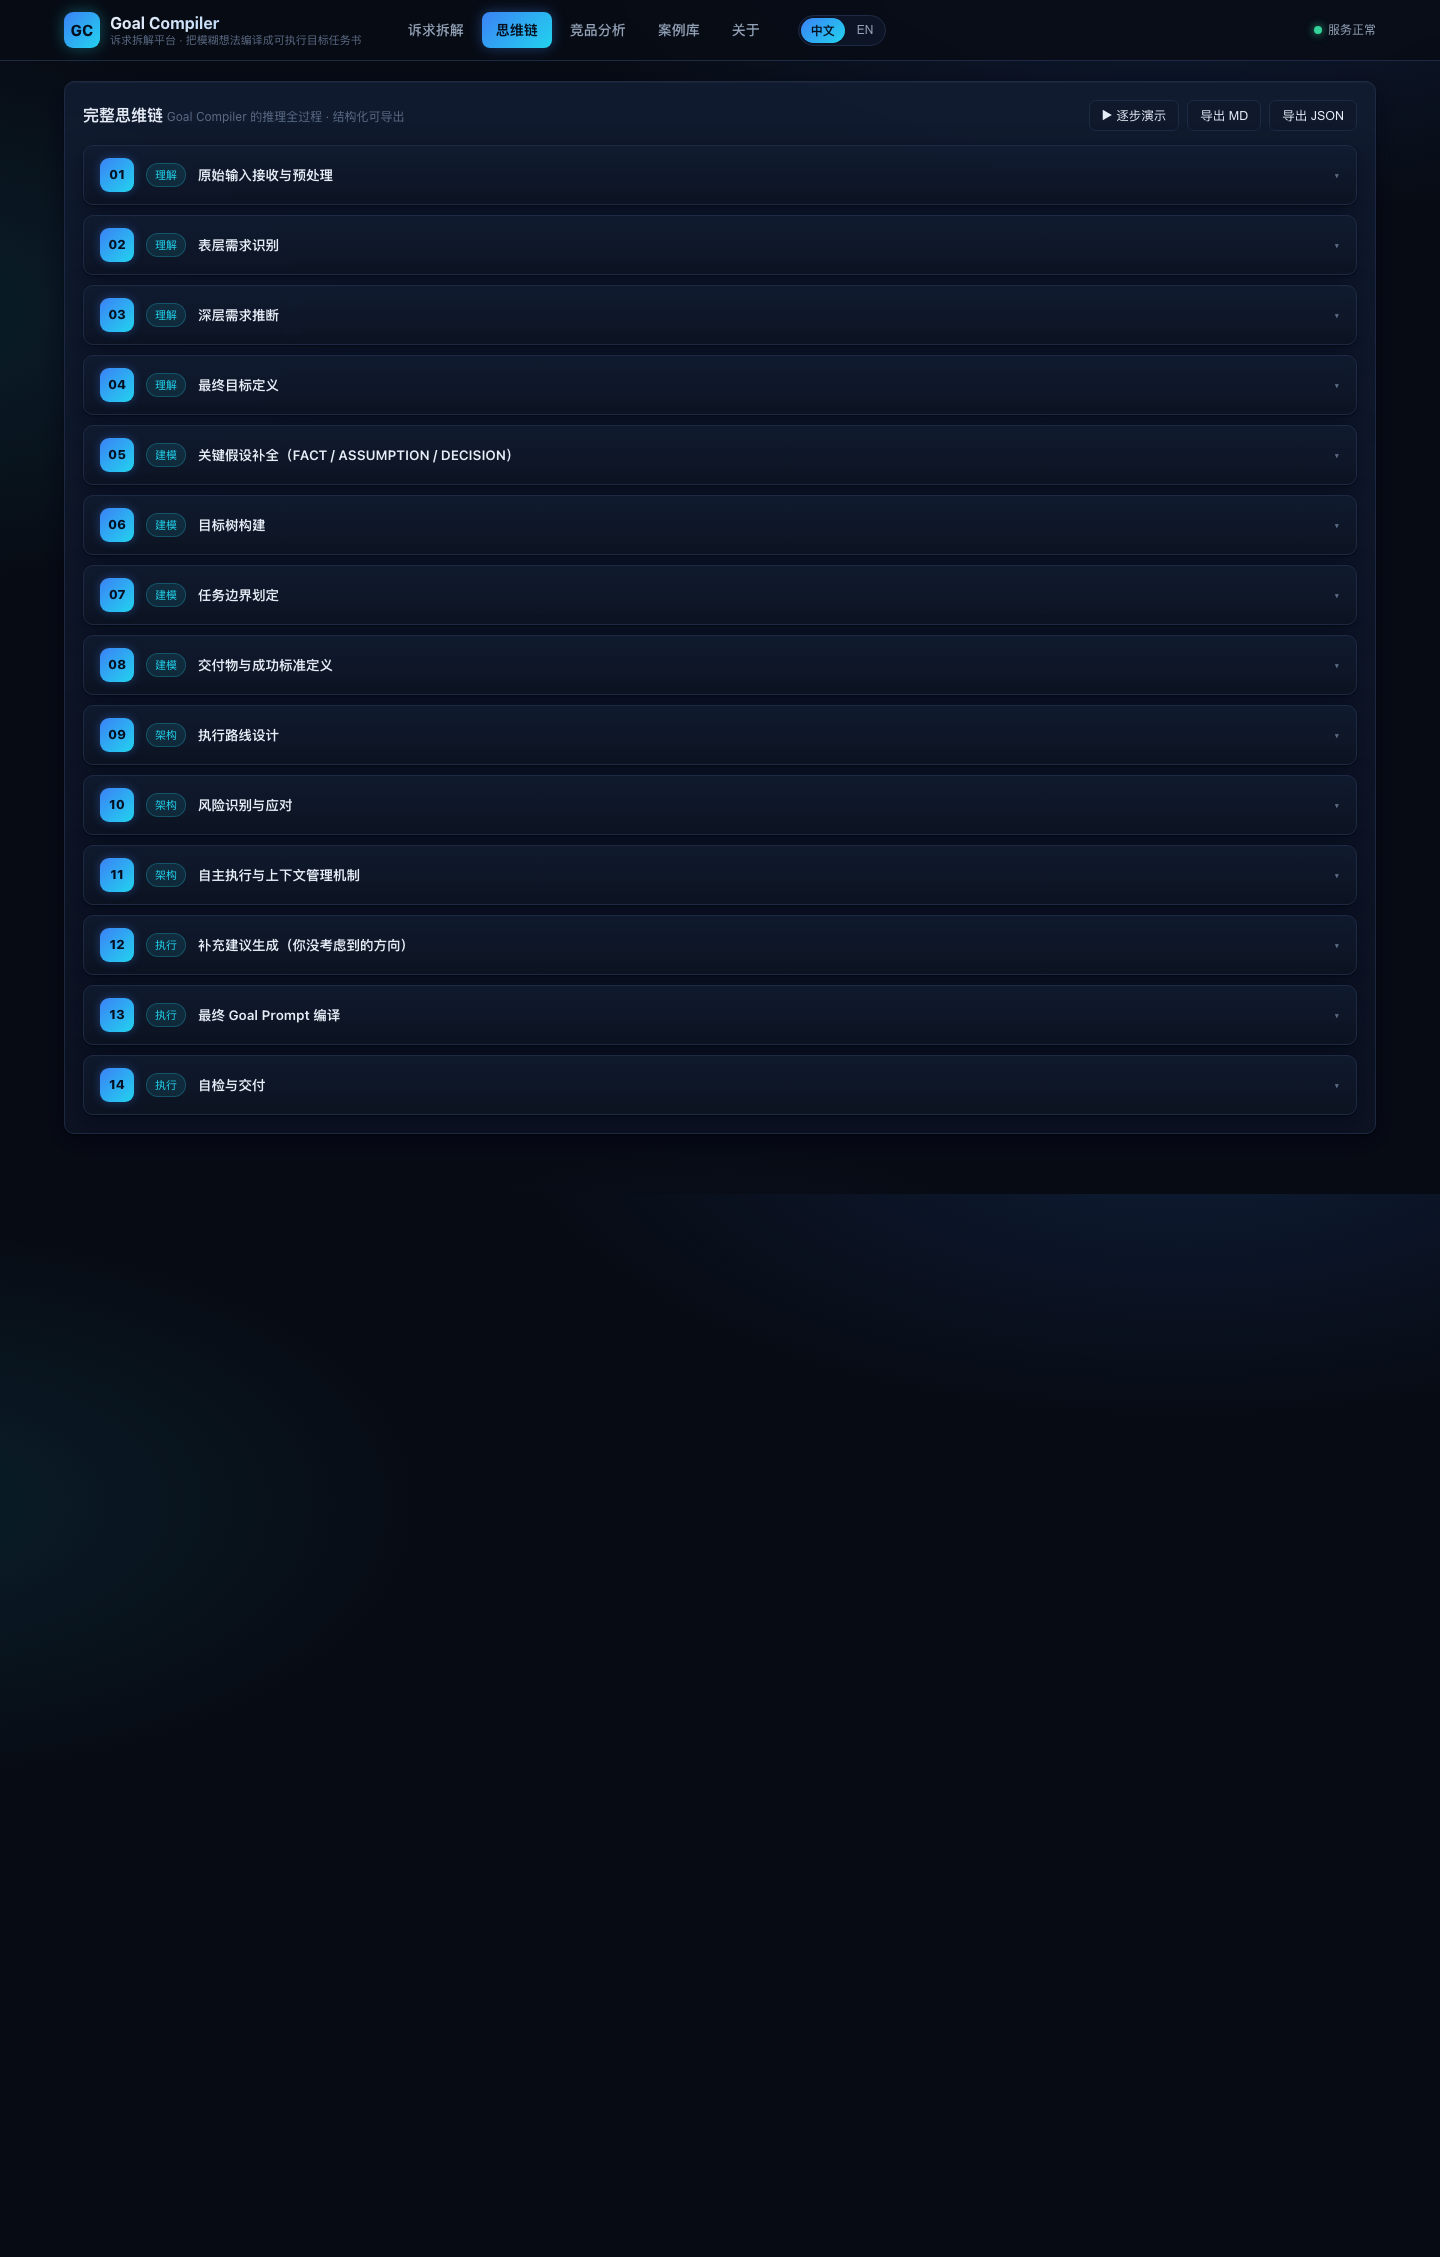
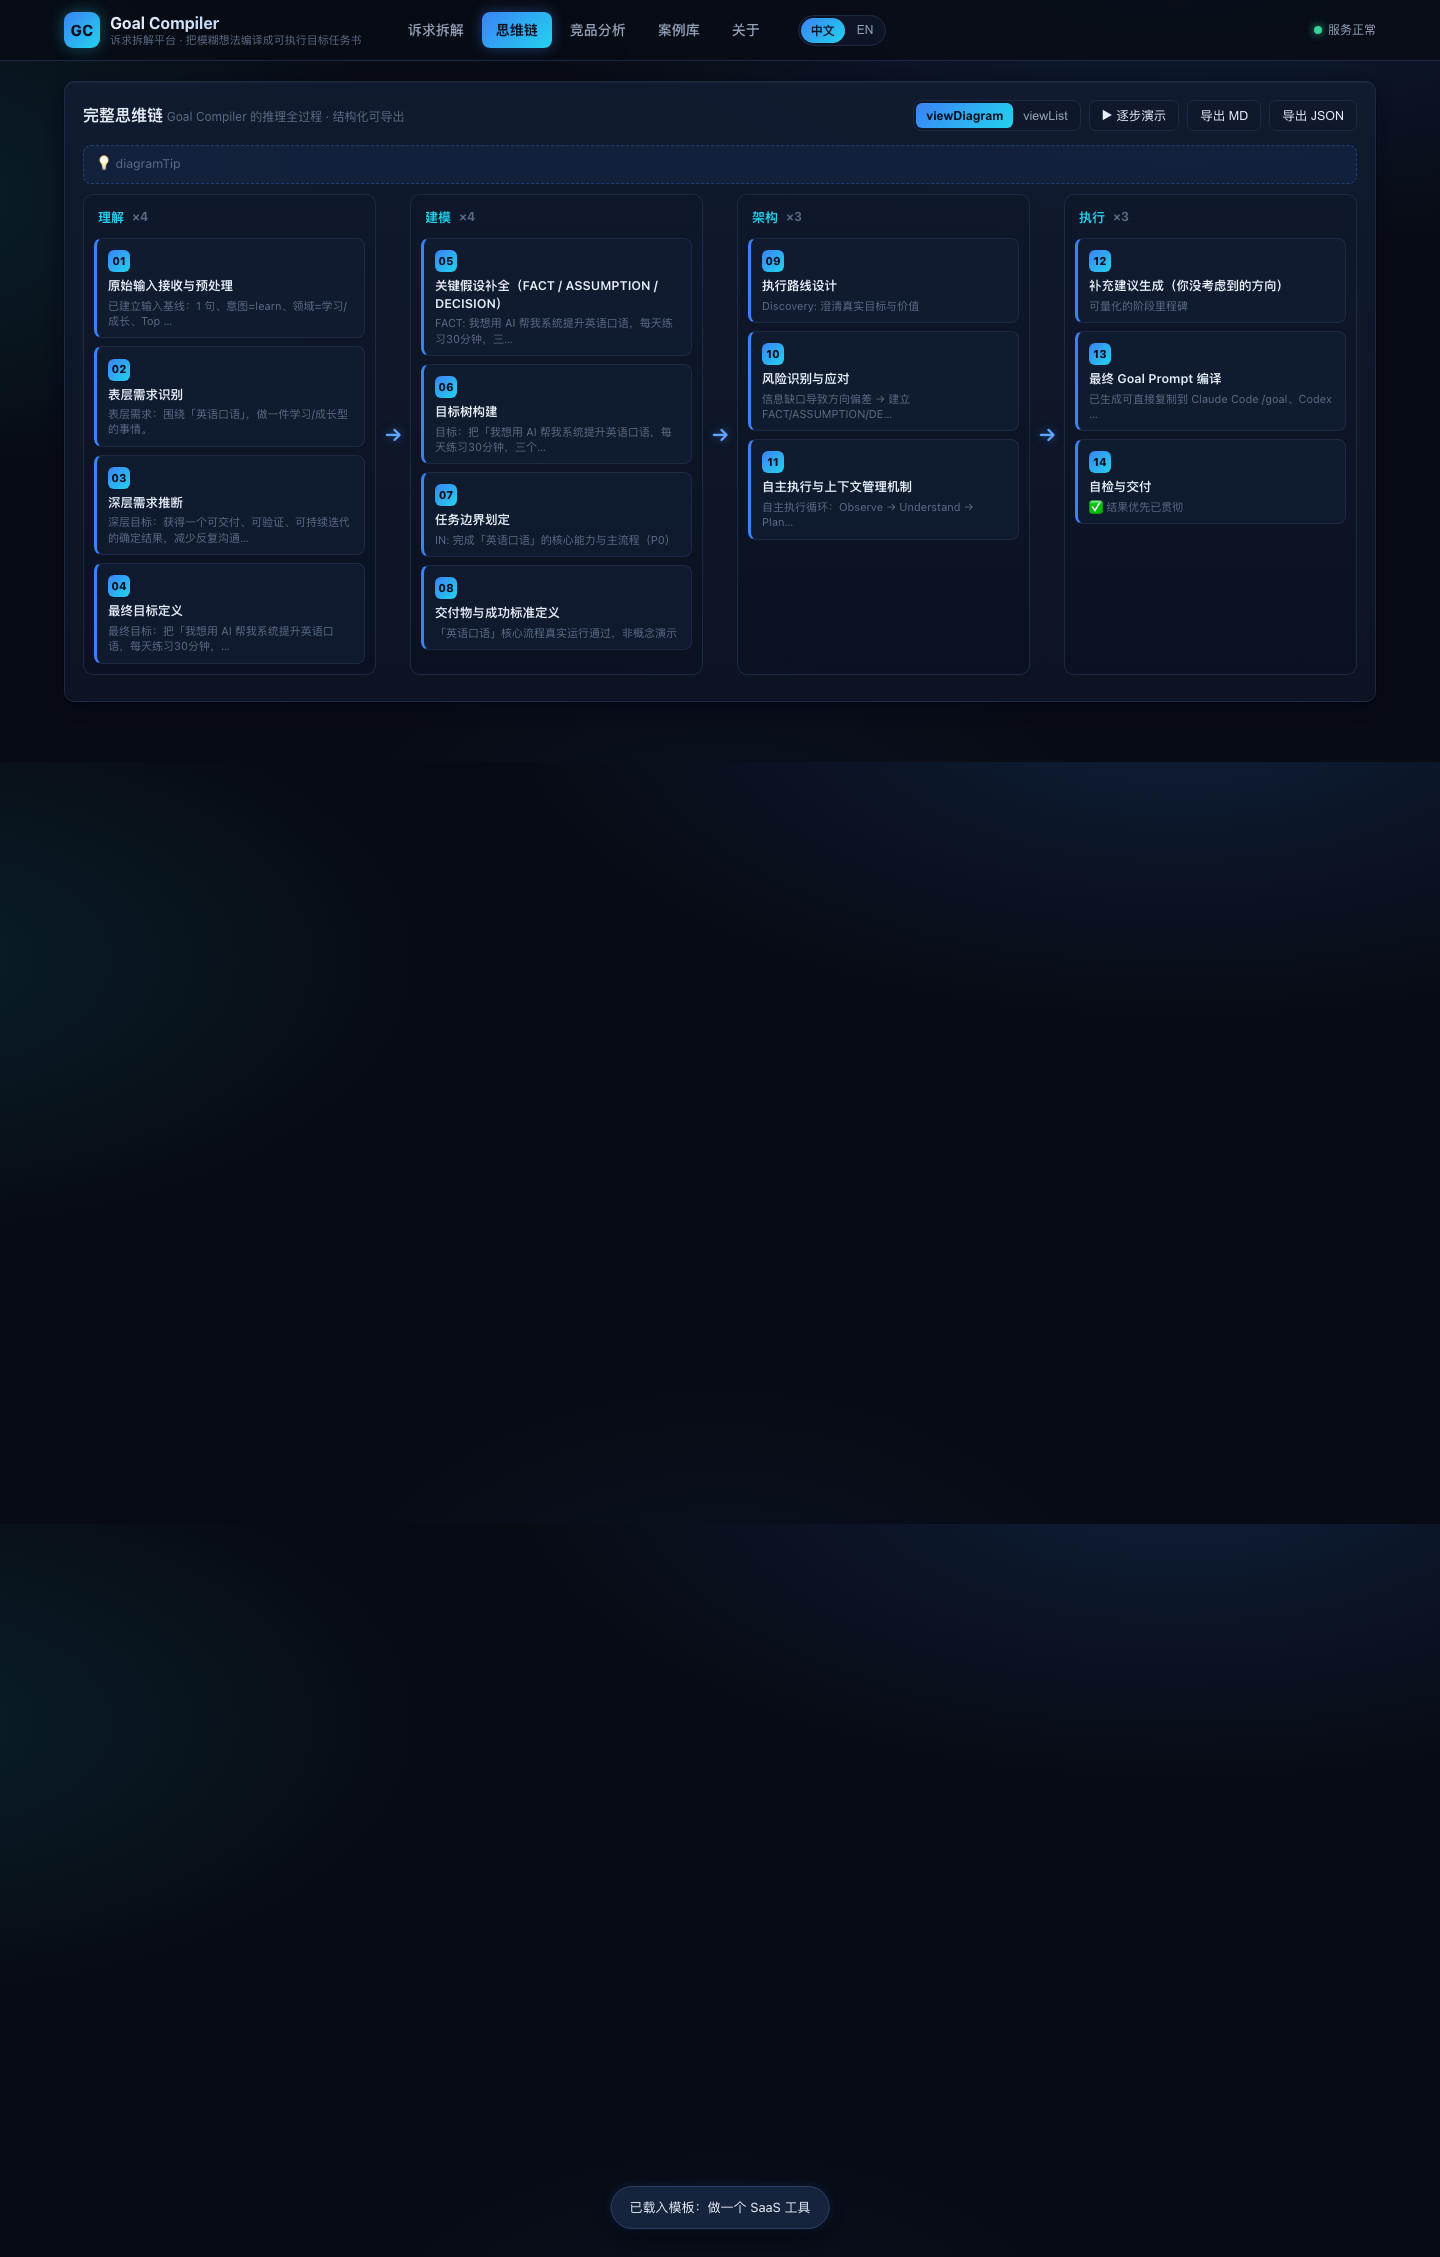
feat(goal-compiler): v5 — 输入历史建议 + 思维链思维框图与节点弹窗
- 🔍 输入框历史建议：聚焦/输入下拉推荐（草稿+已收录案例+内置用例），点击或 ↑↓/Enter/Esc 选择
- 🧠 思维链改为思维框图：理解→建模→架构→执行 四阶段泳道 + 箭头连接
- 🖱 点击任一主逻辑节点弹出解释弹窗（Input/Reasoning/Output/Evidence/Decisions），←/→ 前后节点导航
- 🔀 框图/列表双模式切换；逐步演示在框图模式高亮节点
- 测试：单测+API 18/18、浏览器 E2E 32/32

diff --git a/05-projects/09-goal-compiler/public/styles.css b/05-projects/09-goal-compiler/public/styles.css
@@ -325,3 +325,41 @@ kbd { font-family: var(--mono); font-size: 10px; background: rgba(0,0,0,.25); bo
 .usage-stat { background: linear-gradient(180deg, rgba(17,28,49,.8), rgba(12,19,33,.8)); border: 1px solid var(--border); border-radius: 10px; padding: 14px; text-align: center; }
 .usage-stat b { display: block; font-size: 24px; font-weight: 800; color: var(--primary-bright); }
 .usage-stat span { font-size: 12px; color: var(--muted); }
+
+/* ---- v5 组件：历史输入建议 / 思维框图 / 节点弹窗 ---- */
+.input-wrap { position: relative; }
+.input-suggest { position: absolute; top: 100%; left: 0; right: 0; z-index: 60; margin-top: 4px; background: #0c1424; border: 1px solid var(--border-strong); border-radius: 10px; box-shadow: 0 12px 32px rgba(0,0,0,.5), 0 0 16px rgba(59,130,246,.12); max-height: 260px; overflow: auto; padding: 6px; }
+.sug-item { display: flex; flex-direction: column; gap: 2px; width: 100%; text-align: left; background: transparent; border: none; border-radius: 7px; padding: 8px 10px; cursor: pointer; color: var(--text); }
+.sug-item:hover, .sug-item.active { background: rgba(59,130,246,.14); }
+.sug-raw { font-size: 12.5px; line-height: 1.45; }
+.sug-meta { font-size: 11px; color: var(--faint); }
+
+.seg { display: inline-flex; background: rgba(15,23,42,.8); border: 1px solid var(--border); border-radius: 8px; padding: 2px; }
+.seg-btn { border: none; background: transparent; color: var(--muted); font-size: 12.5px; padding: 5px 10px; border-radius: 6px; cursor: pointer; transition: all .15s; }
+.seg-btn.active { background: var(--primary-grad); color: #04101f; font-weight: 700; }
+.chain-diagram-tip { font-size: 12.5px; color: var(--faint); margin: 0 0 10px; padding: 8px 12px; background: rgba(59,130,246,.07); border: 1px dashed rgba(59,130,246,.3); border-radius: 8px; }
+
+/* 思维框图：四阶段泳道 + 箭头 */
+.cd-flow { display: flex; gap: 0; align-items: stretch; overflow-x: auto; padding-bottom: 8px; }
+.cd-lane { flex: 1; min-width: 210px; background: linear-gradient(180deg, rgba(15,23,42,.6), rgba(10,17,32,.6)); border: 1px solid var(--border); border-radius: 10px; padding: 10px; }
+.cd-lane-head { font-size: 13px; font-weight: 700; color: var(--cyan); padding: 2px 4px 10px; display: flex; align-items: center; gap: 8px; }
+.cd-lane-body { display: flex; flex-direction: column; gap: 8px; }
+.cd-node { background: rgba(17,28,49,.85); border: 1px solid var(--border); border-left: 3px solid var(--primary); border-radius: 8px; padding: 9px 11px; cursor: pointer; transition: all .15s; }
+.cd-node:hover { border-color: var(--primary); box-shadow: 0 0 12px rgba(59,130,246,.25); transform: translateY(-1px); }
+.cd-node.active { border-color: var(--cyan); box-shadow: 0 0 14px rgba(34,211,238,.4); }
+.cd-node-step { display: inline-flex; align-items: center; justify-content: center; min-width: 22px; height: 22px; border-radius: 6px; background: var(--primary-grad); color: #04101f; font-weight: 800; font-size: 11px; margin-bottom: 5px; }
+.cd-node-title { font-size: 12.5px; font-weight: 600; line-height: 1.4; }
+.cd-node-out { font-size: 11px; color: var(--faint); margin-top: 3px; line-height: 1.4; }
+.cd-arrow { display: flex; align-items: center; justify-content: center; min-width: 34px; color: var(--primary-bright); font-size: 20px; font-weight: 700; text-shadow: 0 0 10px rgba(59,130,246,.5); }
+@media (max-width: 1080px) {
+  .cd-flow { flex-direction: column; }
+  .cd-arrow { transform: rotate(90deg); min-height: 26px; }
+}
+
+/* 节点弹窗 */
+.chain-modal-box { max-width: 760px; }
+.chain-body-open .row { margin: 12px 0; }
+.chain-body-open .label { font-size: 11px; text-transform: uppercase; letter-spacing: .4px; color: var(--faint); font-weight: 600; display: block; margin-bottom: 4px; }
+.chain-body-open .reasoning { background: rgba(59,130,246,.08); border-left: 3px solid var(--primary); padding: 10px 12px; border-radius: 0 8px 8px 0; font-size: 13px; }
+.chain-body-open .outcome { background: var(--green-soft); border-left: 3px solid var(--green); padding: 10px 12px; border-radius: 0 8px 8px 0; font-size: 13px; }
+.chain-body-open .input-text { font-size: 12.5px; color: var(--faint); font-style: italic; }

diff --git a/05-projects/09-goal-compiler/public/index.html b/05-projects/09-goal-compiler/public/index.html
@@ -45,7 +45,10 @@
           <h2 data-i18n="inTitle">① 输入原始诉求</h2>
           <span class="hint" data-i18n="inHint">支持中英文，一句话或一段描述均可</span>
         </div>
-        <textarea id="rawInput" rows="7" data-i18n-ph="inPlaceholder" placeholder="例：我想做一个帮程序员准备面试的 AI 面试官工具，可以模拟面试并打分反馈，按岗位定制问题…"></textarea>
+        <div class="input-wrap">
+          <textarea id="rawInput" rows="7" data-i18n-ph="inPlaceholder" placeholder="例：我想做一个帮程序员准备面试的 AI 面试官工具，可以模拟面试并打分反馈，按岗位定制问题…"></textarea>
+          <div id="inputSuggestions" class="input-suggest hidden"></div>
+        </div>
         <div class="input-meta">
           <span id="inputStats">0 字 · 0 句</span>
           <span class="link" id="clearInput" data-i18n="clear">清空</span>
@@ -151,6 +154,10 @@
       <div class="panel-head">
         <h2 data-i18n="chainTitle">完整思维链 <span class="hint" data-i18n="chainHint">Goal Compiler 的推理全过程 · 结构化可导出</span></h2>
         <div class="toolbar">
+          <div class="seg" id="chainViewSeg">
+            <button class="seg-btn active" data-view="diagram" data-i18n="viewDiagram">🧠 思维框图</button>
+            <button class="seg-btn" data-view="list" data-i18n="viewList">☰ 列表模式</button>
+          </div>
           <button class="btn-ghost" id="playChainBtn" data-i18n="play">▶ 逐步演示</button>
           <button class="btn-ghost" id="exportChainMd" data-i18n="exportMd">导出 MD</button>
           <button class="btn-ghost" id="exportChainJson" data-i18n="exportJson">导出 JSON</button>
@@ -159,6 +166,8 @@
       <div id="chainEmpty" class="empty-state">
         <p data-i18n="chainEmpty">先在上方「诉求拆解」中完成一次编译，<br/>这里将以 14 个推理节点展示完整思维链。</p>
       </div>
+      <div class="chain-diagram-tip" id="chainDiagramTip">💡 <span data-i18n="diagramTip">思维框图：按「理解 → 建模 → 架构 → 执行」四阶段泳道组织，点击任一主逻辑节点查看详细解释</span></div>
+      <div id="chainDiagram" class="chain-diagram hidden"></div>
       <div id="chainList" class="chain-list hidden"></div>
     </div>
   </section>
@@ -285,6 +294,22 @@
     </div>
   </section>
 </main>
+
+<!-- 思维链节点解释弹窗 -->
+<div id="chainModal" class="modal hidden">
+  <div class="modal-box chain-modal-box">
+    <div class="modal-head">
+      <h3 id="chainModalTitle">节点解释</h3>
+      <div class="toolbar">
+        <button class="btn-ghost" id="chainModalPrev">←</button>
+        <span class="hint" id="chainModalPos">1/14</span>
+        <button class="btn-ghost" id="chainModalNext">→</button>
+        <button class="btn-ghost" id="chainModalClose">✕</button>
+      </div>
+    </div>
+    <div id="chainModalBody"></div>
+  </div>
+</div>
 
 <!-- 历史记录弹层 -->
 <div id="historyModal" class="modal hidden">

diff --git a/05-projects/09-goal-compiler/README.md b/05-projects/09-goal-compiler/README.md
@@ -31,6 +31,12 @@
 - 📐 **竞品评分规则公开**：5 维 0-5 分（相关度/产品化/拆解深度/采纳度/威胁度）+ 定位矩阵象限规则
 - 🗃 **竞品页按分类区域重组**：Skill / 仓库 / SaaS / 网页应用 / MCP / npm / AI 模型 / 社区讨论 分区展示（含平均威胁度）
 
+## 本次升级（v5）
+
+- 🔍 **输入框历史建议**：聚焦/输入时下拉推荐历史输入（草稿 + 已收录案例 + 内置用例），支持点击与 ↑↓/Enter/Esc 键盘选择
+- 🧠 **思维链改为思维框图**：「理解 → 建模 → 架构 → 执行」四阶段泳道 + 箭头连接；点击任一主逻辑节点弹出**解释弹窗**（输入/推理/结论/证据/决策），支持 ←/→ 前后节点导航；保留列表模式可切换
+- ✅ 列表模式 / 框图模式一键切换；「▶ 逐步演示」在框图模式高亮节点
+
 设计风格：**商务科技深色**（深空蓝黑底 + 电光蓝/青渐变、玻璃拟态卡片、高信息密度，保持商务高效简约）。
 
 ## 快速开始
@@ -47,7 +53,7 @@ node server/server.mjs 8910
 
 ```bash
 node --test tests/compile.test.mjs tests/caselib.test.mjs tests/skilllib.test.mjs tests/api.test.mjs tests/api2.test.mjs   # 单测+案例库+SKILL+API（18/18）
-node tests/e2e-cdp.mjs                                                                                                         # 浏览器端到端（26/26，需本机 Chrome）
+node tests/e2e-cdp.mjs                                                                                                         # 浏览器端到端（32/32，需本机 Chrome）
 ```
 
 ## 3 个内置测试用例
